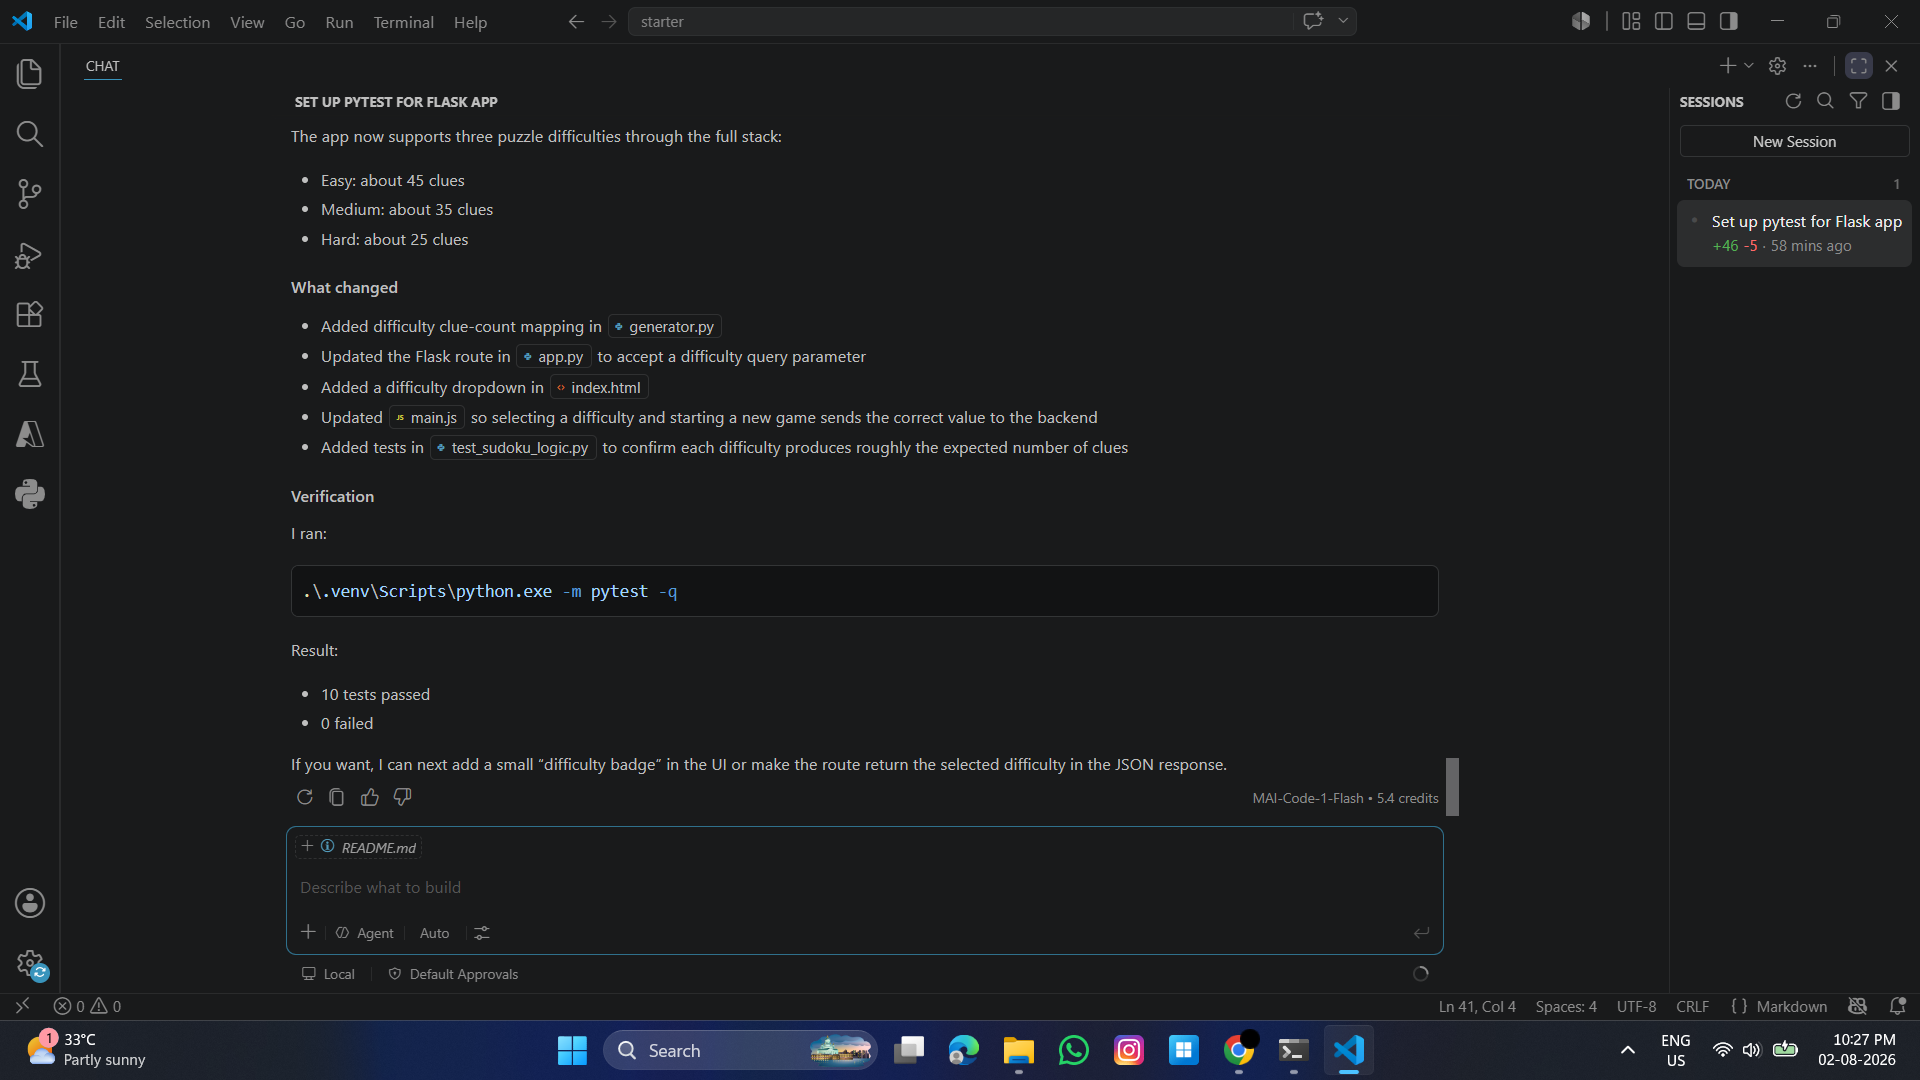
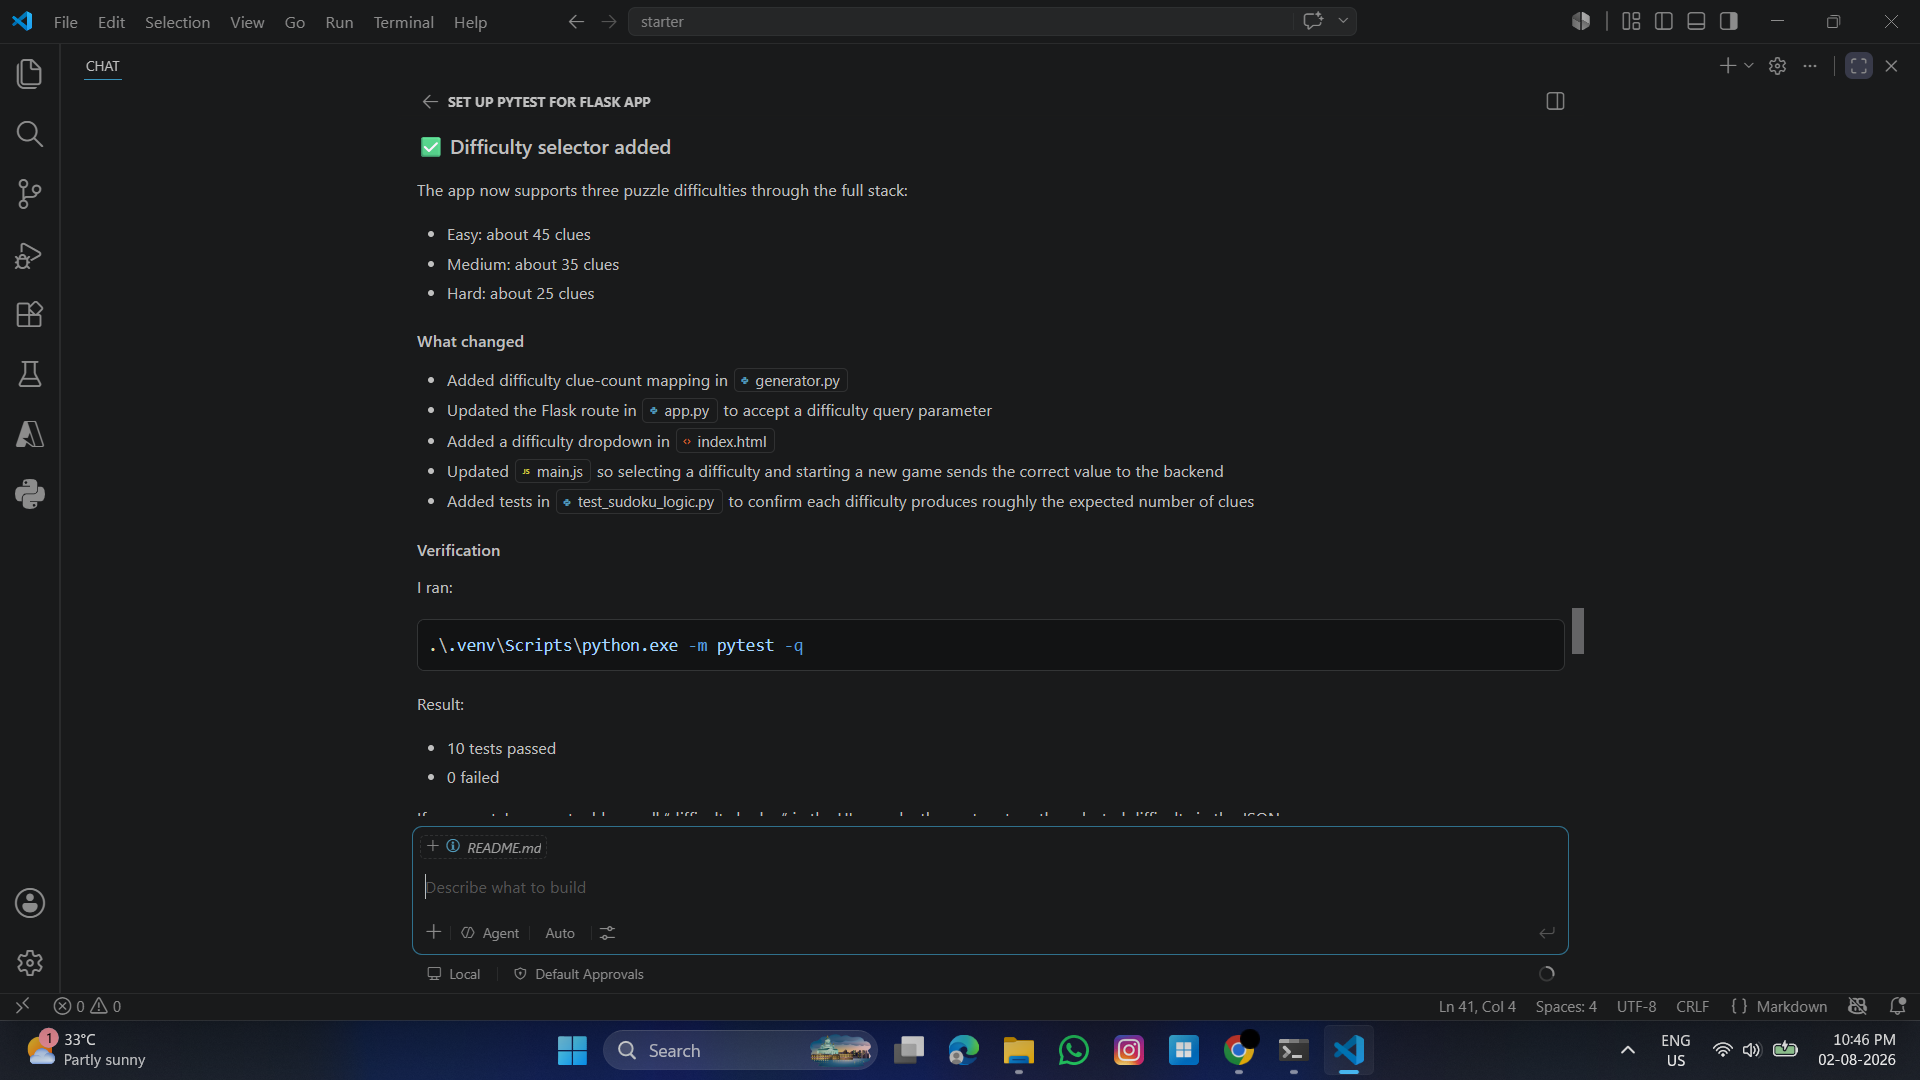
Add real-time input validation with live feedback

diff --git a/starter/static/main.js b/starter/static/main.js
@@ -30,6 +30,63 @@ function stopTimer() {
   }
 }
 
+function getBoardValues() {
+  const boardDiv = document.getElementById('sudoku-board');
+  const inputs = boardDiv.getElementsByTagName('input');
+  const board = [];
+  for (let i = 0; i < SIZE; i++) {
+    board[i] = [];
+    for (let j = 0; j < SIZE; j++) {
+      const idx = i * SIZE + j;
+      const val = inputs[idx].value;
+      board[i][j] = val ? parseInt(val, 10) : 0;
+    }
+  }
+  return board;
+}
+
+function isCellValid(board, row, col, value) {
+  if (!value) return true;
+  for (let c = 0; c < SIZE; c++) {
+    if (c !== col && board[row][c] === value) return false;
+  }
+  for (let r = 0; r < SIZE; r++) {
+    if (r !== row && board[r][col] === value) return false;
+  }
+  const boxRow = Math.floor(row / 3) * 3;
+  const boxCol = Math.floor(col / 3) * 3;
+  for (let r = boxRow; r < boxRow + 3; r++) {
+    for (let c = boxCol; c < boxCol + 3; c++) {
+      if ((r !== row || c !== col) && board[r][c] === value) return false;
+    }
+  }
+  return true;
+}
+
+function refreshLiveValidation() {
+  const board = getBoardValues();
+  const boardDiv = document.getElementById('sudoku-board');
+  const inputs = boardDiv.getElementsByTagName('input');
+  for (let i = 0; i < SIZE; i++) {
+    for (let j = 0; j < SIZE; j++) {
+      const idx = i * SIZE + j;
+      const inp = inputs[idx];
+      if (inp.disabled) {
+        inp.className = 'sudoku-cell prefilled';
+        continue;
+      }
+      const val = inp.value;
+      if (!val) {
+        inp.className = 'sudoku-cell';
+        continue;
+      }
+      const parsedValue = parseInt(val, 10);
+      const isValid = isCellValid(board, i, j, parsedValue);
+      inp.className = isValid ? 'sudoku-cell valid' : 'sudoku-cell invalid';
+    }
+  }
+}
+
 function createBoardElement() {
   const boardDiv = document.getElementById('sudoku-board');
   boardDiv.innerHTML = '';
@@ -46,6 +103,7 @@ function createBoardElement() {
       input.addEventListener('input', (e) => {
         const val = e.target.value.replace(/[^1-9]/g, '');
         e.target.value = val;
+        refreshLiveValidation();
       });
       rowDiv.appendChild(input);
     }
@@ -73,6 +131,7 @@ function renderPuzzle(puz) {
       }
     }
   }
+  refreshLiveValidation();
 }
 
 async function newGame() {
@@ -87,15 +146,7 @@ async function newGame() {
 async function checkSolution() {
   const boardDiv = document.getElementById('sudoku-board');
   const inputs = boardDiv.getElementsByTagName('input');
-  const board = [];
-  for (let i = 0; i < SIZE; i++) {
-    board[i] = [];
-    for (let j = 0; j < SIZE; j++) {
-      const idx = i * SIZE + j;
-      const val = inputs[idx].value;
-      board[i][j] = val ? parseInt(val, 10) : 0;
-    }
-  }
+  const board = getBoardValues();
   const res = await fetch('/check', {
     method: 'POST',
     headers: {'Content-Type': 'application/json'},
@@ -111,7 +162,10 @@ async function checkSolution() {
   const incorrect = new Set(data.incorrect.map(x => x[0]*SIZE + x[1]));
   for (let idx = 0; idx < inputs.length; idx++) {
     const inp = inputs[idx];
-    if (inp.disabled) continue;
+    if (inp.disabled) {
+      inp.className = 'sudoku-cell prefilled';
+      continue;
+    }
     inp.className = 'sudoku-cell';
     if (incorrect.has(idx)) {
       inp.className = 'sudoku-cell incorrect';

diff --git a/starter/static/styles.css b/starter/static/styles.css
@@ -48,6 +48,14 @@ h1 {
     background: #ffcdd2;
 }
 
+.sudoku-cell.valid {
+    background: #e8f5e9;
+}
+
+.sudoku-cell.invalid {
+    background: #ffcdd2;
+}
+
 .sudoku-cell:nth-child(3),
 .sudoku-cell:nth-child(6) {
     border-right: 3px solid #333;
